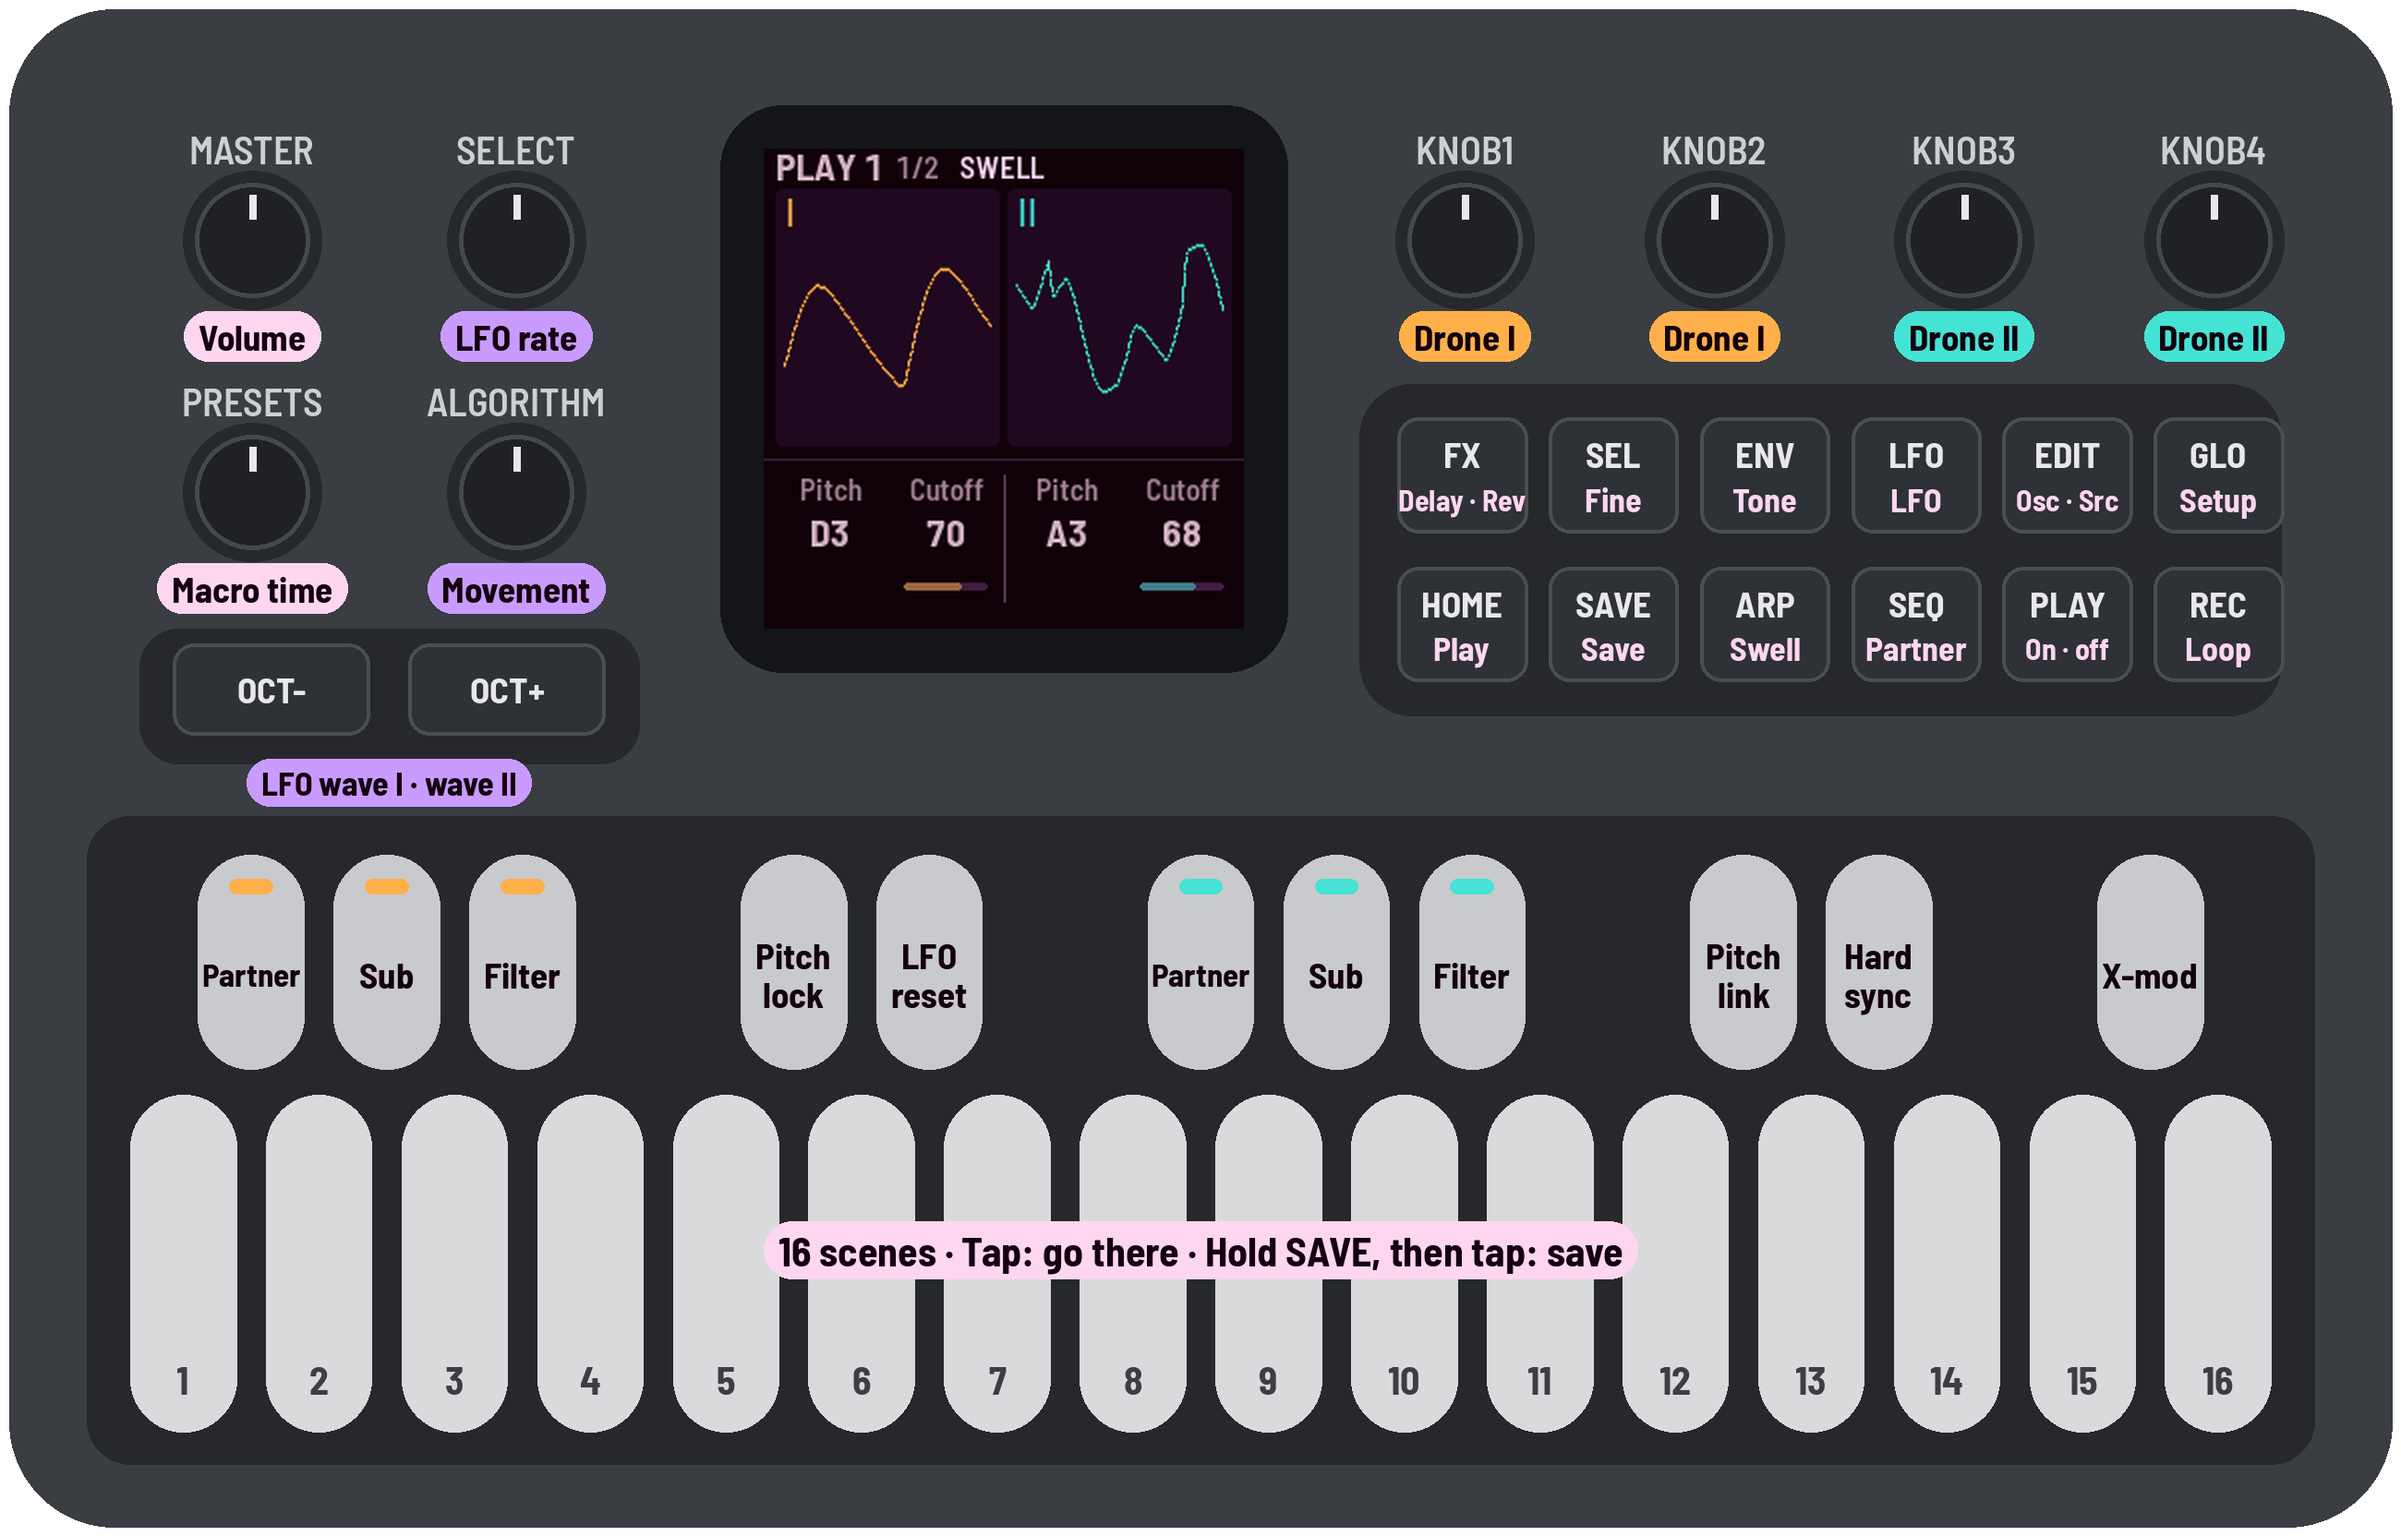
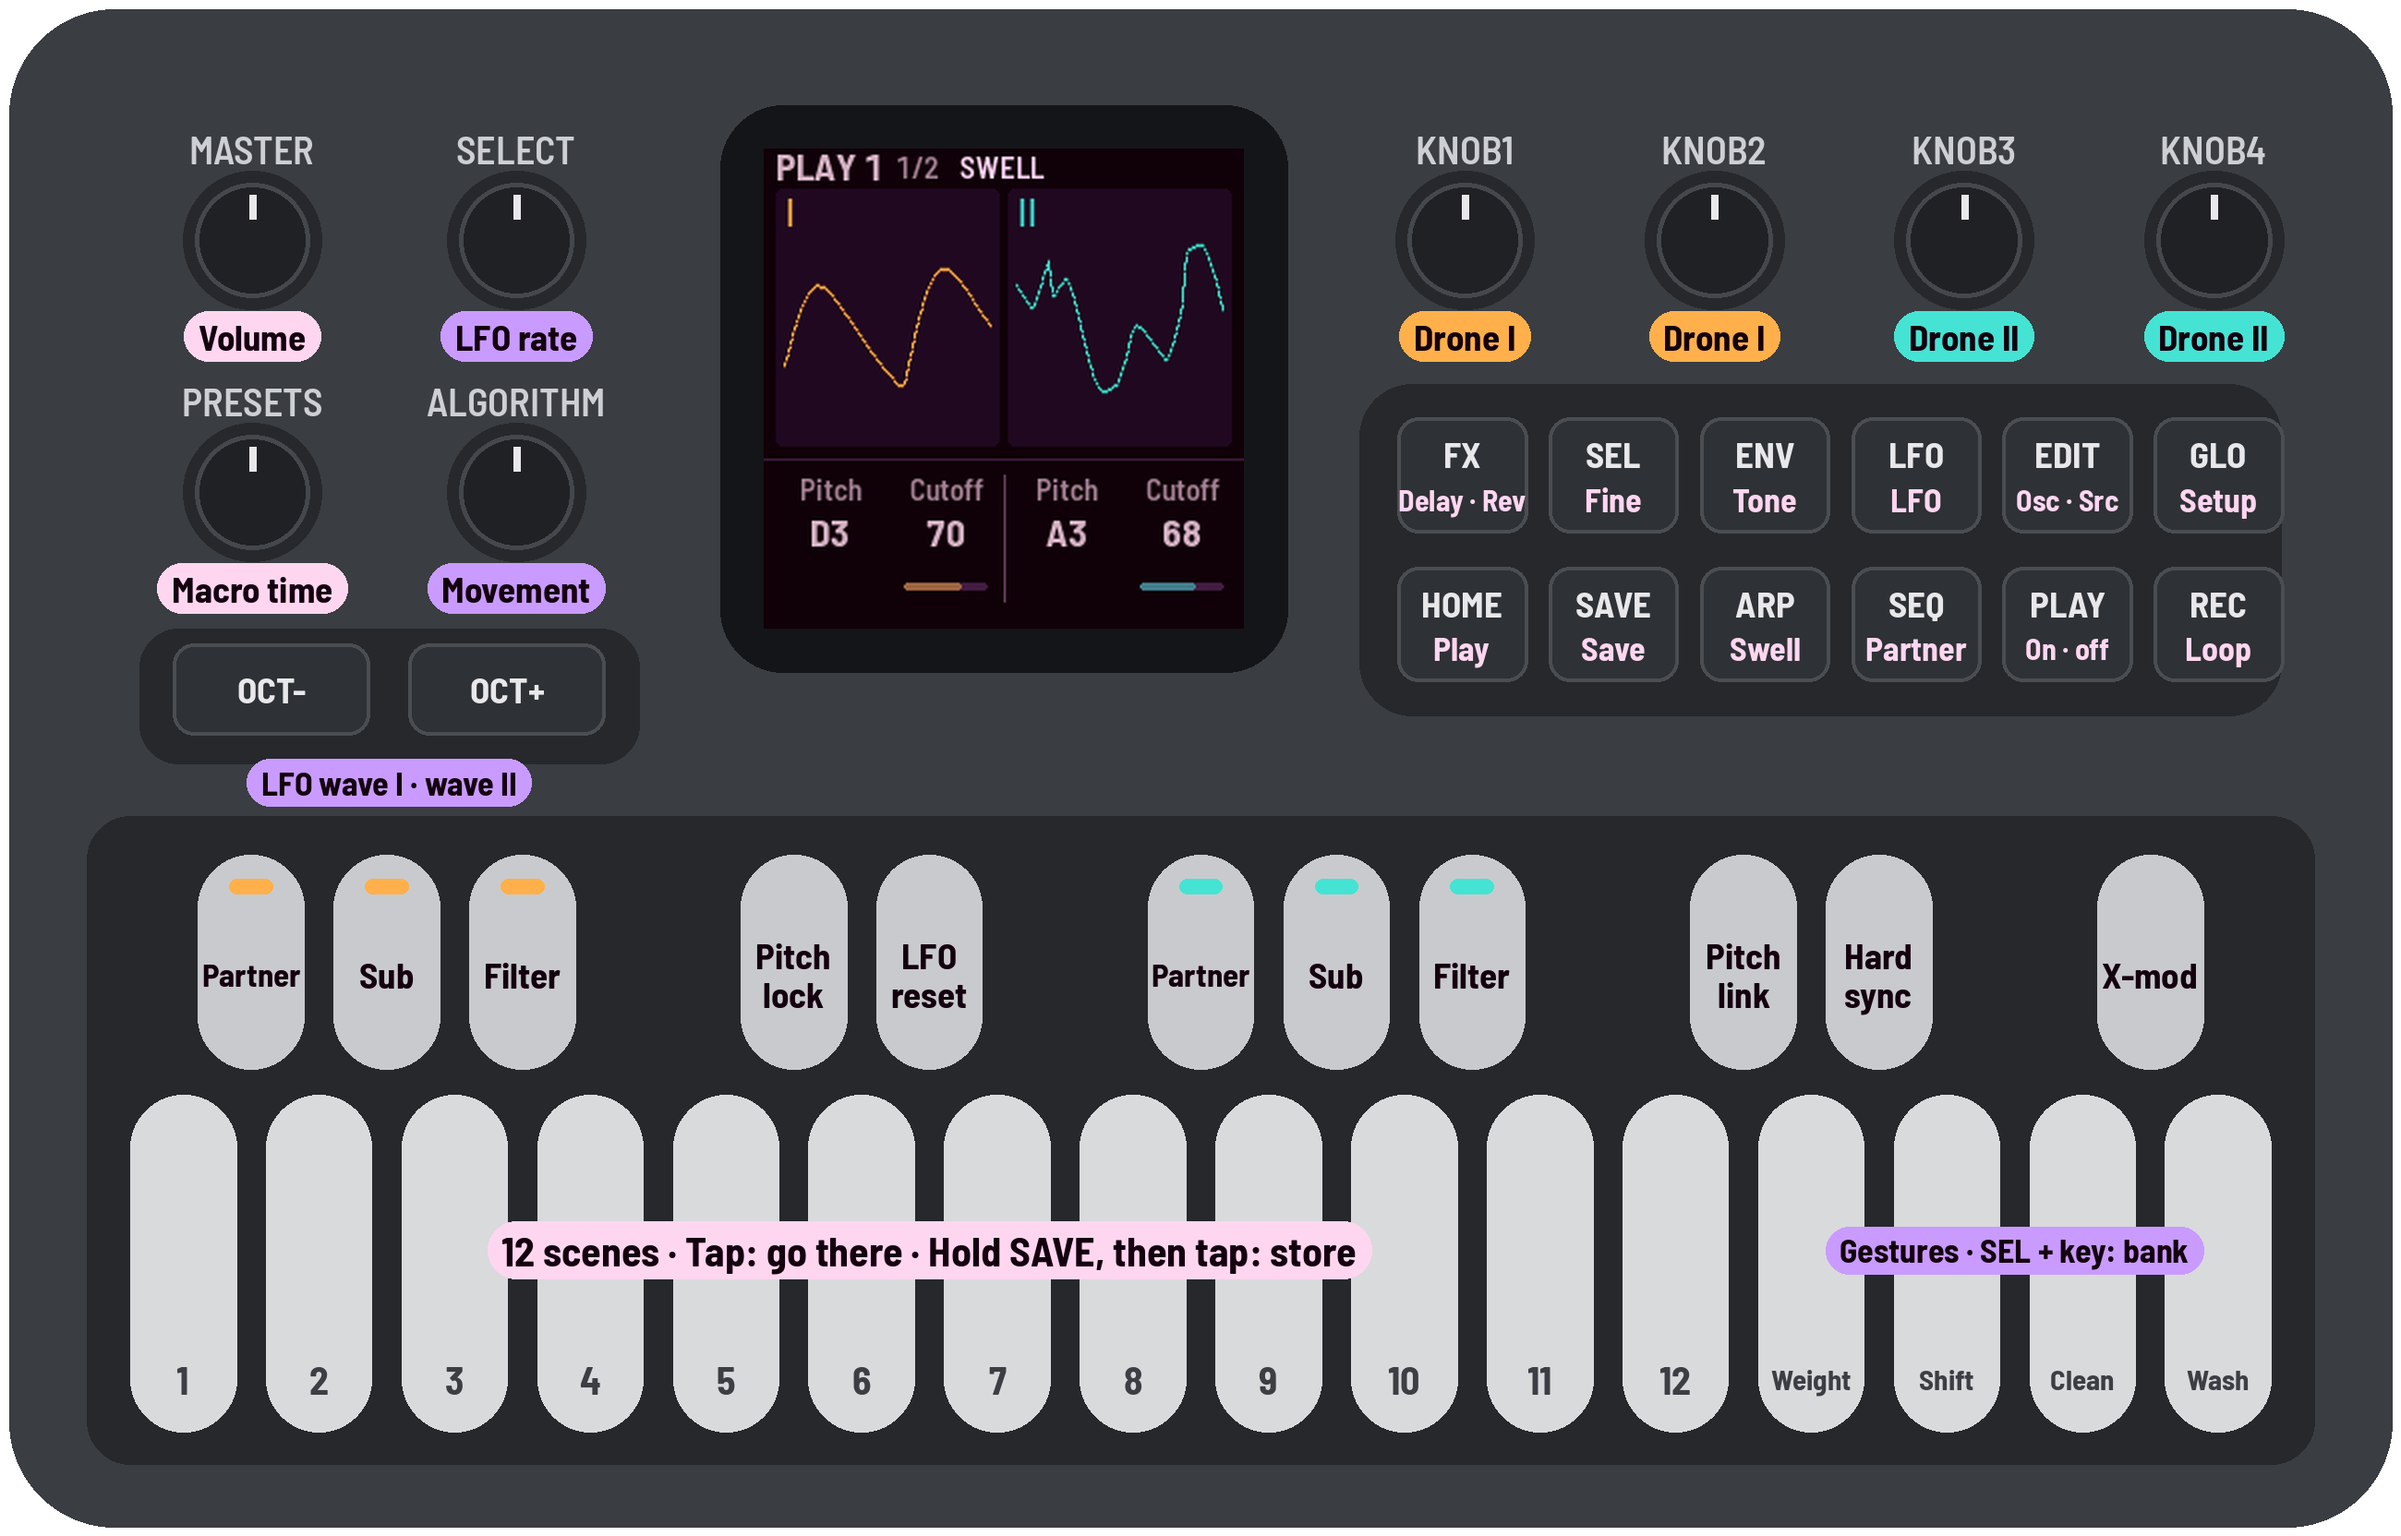
From the page-by-page review: top-bar badges, a SAVE hint, the panel picture
The SWELL badge was cut to "SW" under the left-encoder pill: badges now show
only where they fit. Holding SAVE says what a key does and what letting go
does. The panel picture showed 16 scenes; it shows 12 and the four gestures.
The README's knob rule holds on the drone pages, and says so.

diff --git a/firmware/src/app/ui.c b/firmware/src/app/ui.c
@@ -1182,6 +1182,17 @@ static void input(void)
             ui.rst_done = 1;
         }
     }
+    {   /* SAVE held a moment, no key yet: say what it does (the review: holding it gave no hint) */
+        static uint32_t save_dn;
+        if (btn >> B_SAVE & 1u) {
+            if (!save_dn)
+                save_dn = plat_ms() | 1u;
+            if (plat_ms() - save_dn >= HOLD_MS && !(ui.btn_used >> B_SAVE & 1u))
+                say_c("KEY: STORE", "LET GO: SAVE", K_GOLD);
+        } else {
+            save_dn = 0;
+        }
+    }
     for (i = 0; i < NSCENES; i++) {                    /* the white keys: scenes (SAVE held: store) */
         if ((ch & keys) >> WHITE_K[i] & 1u) {
             if (btn >> B_SAVE & 1u) {
@@ -1415,15 +1426,28 @@ static void draw_bar(void)
         }
         x = cv_text(x, 2, &FONT_XS, ui.loop == L_REC ? t : "LOOP", K_DRONE[0]) + 6;
     }
-    if (proj.par[P_PULSE] && ui.view != V_PULSE)  /* on its own page, its name says it */
-        x = cv_text(x, 2, &FONT_XS, "SWELL", K_PULSE) + 6;
-    if (visiting) {                            /* "VISIT B3": let go and it goes back */
-        char t[12] = "VISIT ";
-        scene_name(t + 6, proj.bank, ui.visit);
-        x = cv_text(x, 2, &FONT_XS, t, K_GOLD) + 6;
+    {   /* the badges, each only where it fits whole: left of the pill when a left encoder turns (the review: it
+         * cut "SWELL" to "SW") */
+        char t[34], v[12] = "VISIT ";
+        int32_t lim = rx;
+        if (gl) {
+            char *q = scopy(t, ui.glab[0]);
+            *q++ = ' ';
+            *q++ = ' ';
+            scopy(q, ui.glab[1]);
+            lim = rx - (text_w(&FONT_XS, t) + 12) - 4;
+        }
+        if (proj.par[P_PULSE] && ui.view != V_PULSE && x + text_w(&FONT_XS, "SWELL") <= lim)   /* on its own page,
+                                                                                                * its name says it */
+            x = cv_text(x, 2, &FONT_XS, "SWELL", K_PULSE) + 6;
+        if (visiting) {                        /* "VISIT B3": let go and it goes back */
+            scene_name(v + 6, proj.bank, ui.visit);
+            if (x + text_w(&FONT_XS, v) <= lim)
+                x = cv_text(x, 2, &FONT_XS, v, K_GOLD) + 6;
+        }
+        if (proj.par[P_II_OUT] && x + text_w(&FONT_XS, "II OUT") <= lim)   /* drone II out on its own (SEL + PLAY) */
+            x = cv_text(x, 2, &FONT_XS, "II OUT", K_DRONE[1]) + 6;
     }
-    if (proj.par[P_II_OUT])                    /* drone II faded out on its own (SEL + PLAY) */
-        x = cv_text(x, 2, &FONT_XS, "II OUT", K_DRONE[1]) + 6;
     if (gl) {                                  /* SELECT / ALGORITHM / PRESETS: a pill by the lights */
         char t[34];
         int32_t w;

diff --git a/tools/make_screens.py b/tools/make_screens.py
@@ -98,7 +98,8 @@ def panel(play_png):
     for i in range(16):
         x = x0 + 12 + i * pitch + (pitch - kw) / 2
         rect(x, y0 + h * .43, kw, h * .52, kw / 2, KEY_W)
-        d.text((P(x + kw / 2), P(y0 + h * .43 + h * .52 - 22)), str(i + 1), font=f(16), fill=(60, 62, 68),
+        label = str(i + 1) if i < 12 else ("Weight", "Shift", "Clean", "Wash")[i - 12]   # 12 scenes, 4 gestures
+        d.text((P(x + kw / 2), P(y0 + h * .43 + h * .52 - 22)), label, font=f(16 if i < 12 else 12), fill=(60, 62, 68),
                anchor="mm")
     for k, a in enumerate(BLACK_AFTER):
         x = x0 + 12 + (a + 1) * pitch - kw / 2
@@ -110,7 +111,9 @@ def panel(play_png):
         for j, wd in enumerate(words):
             d.text((P(x + kw / 2), P(y0 + h * .06 + h * .33 / 2 + (j - (len(words) - 1) / 2) * 16 + 5)), wd,
                    font=f(15 if len(wd) < 7 else 13.5), fill=INK, anchor="mm")
-    pill(500, y0 + h * .43 + h * .24, "16 scenes · Tap: go there · Hold SAVE, then tap: save", INK, PALE, 17)
+    pill(x0 + 12 + 6 * pitch, y0 + h * .43 + h * .24, "12 scenes · Tap: go there · Hold SAVE, then tap: store", INK,
+         PALE, 17)
+    pill(x0 + 12 + 14 * pitch, y0 + h * .43 + h * .24, "Gestures · SEL + key: bank", INK, LILAC, 14)
     return img
 
 

diff --git a/docs/decisions.md b/docs/decisions.md
@@ -278,3 +278,6 @@ at the end. The current state is in the [README](../README.md) and the code.
   Presets levelled to P1 within about 2.4 dB A-weighted and through a 200 Hz high-pass (a small speaker); the screen
   names a Preset as it's chosen ("SCENE P3 EERIE"; not once it's saved over). Clean holds the loudness: the output's
   slow level (30 s while Clean is out, 3 s while in) eases down to match, as far as Clean is in, 12 dB at most.
+- 2026-10-18 (from review 4, no design change): the top bar's badges (SWELL, VISIT, II OUT) show only where they fit
+  beside the left-encoder pill; holding SAVE says "KEY: STORE  LET GO: SAVE"; the panel picture shows 12 scenes and
+  the four gestures; the README says the drone-I / drone-II knob rule holds on the drone pages.

diff --git a/README.md b/README.md
@@ -71,8 +71,10 @@ still works. If an FM-1 won't start at all, a Mac can still put the stock firmwa
 
 ## Playing it
 
-**KNOB 1–2 are always drone I, KNOB 3–4 always drone II.** The page buttons change what they do;
-the screen shows each page's settings as a picture, and the value of the knob you're turning.
+**On the drone pages, KNOB 1–2 are drone I and KNOB 3–4 drone II** (Play, Tone 1, Osc, Source, Partner, LFO
+depths: their names underlined amber and teal). The other pages hold settings for the whole sound, a knob each.
+The page buttons change what they do; the screen shows each page's settings as a picture, and the value of the
+knob you're turning.
 
 | | |
 |---|---|
